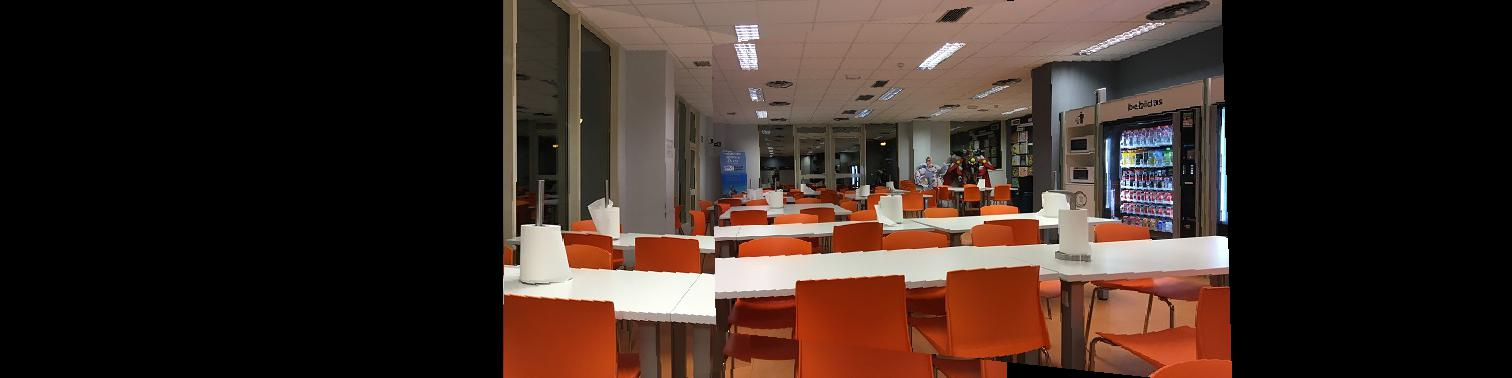
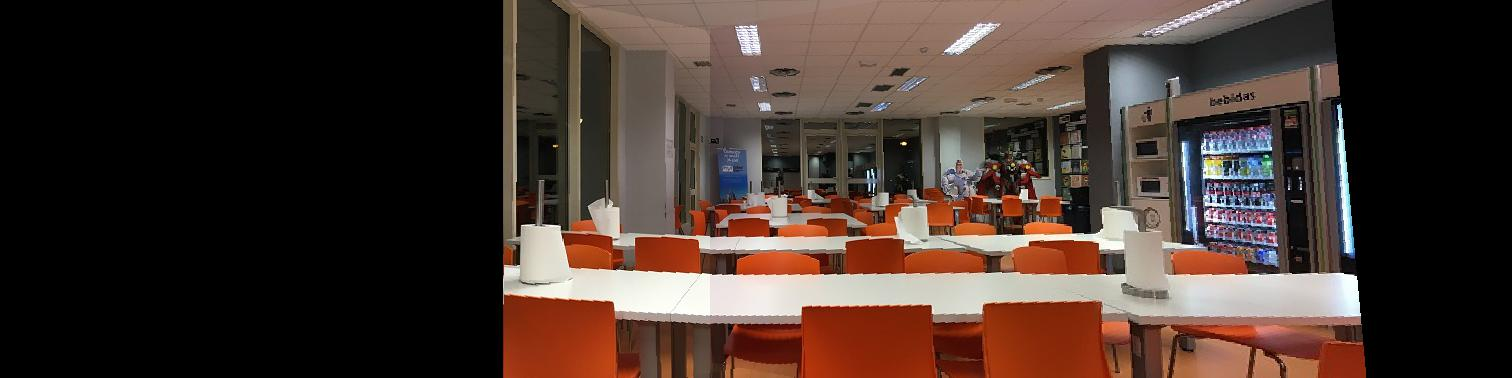
Newer, more precise points for the right photo's homography

Changed region(s): [[0.4663, 0.0, 0.9015, 1.0], [0.4663, 0.9312, 0.5284, 0.9894]]

diff --git a/Ejercicio03/Ejercicio_03_03.m b/Ejercicio03/Ejercicio_03_03.m
@@ -98,17 +98,17 @@ end
 
 % Lado Derecho
 % Puntos foto derecha
-PuntoD_X_3 = 5.886758317774585;
-PuntoD_Y_3 = 6.294396955907192;
+PuntoD_X_3 = 0.63;
+PuntoD_Y_3 = 7.46;
 
-PuntoE_X_3 = 6.767936009341497;
-PuntoE_Y_3 = 8.282419796637424;
+PuntoE_X_3 = 2.17;
+PuntoE_Y_3 = 1.44;
 
-PuntoF_X_3 = 4.532753572196157;
-PuntoF_Y_3 = 6.219174470041724;
+PuntoF_X_3 = 3.82;
+PuntoF_Y_3 = 5.32;
 
-PuntoG_X_3 = 6.73569780111344;
-PuntoG_Y_3 = 5.069345043240996;
+PuntoG_X_3 = 5.49;
+PuntoG_Y_3 = 1.79;
 
 ColumnaPuntoD_3 = relacionEjeX * PuntoD_X_3;
 FilaPuntoD_3 = filas - (relacionEjeY  * PuntoD_Y_3);
@@ -128,17 +128,17 @@ MatrizOriginal = [FilaPuntoD_3, ColumnaPuntoD_3;
                   FilaPuntoG_3, ColumnaPuntoG_3];
                   
 % Puntos foto central
-PuntoD_X_4 = 8.755046330849181;
-PuntoD_Y_4 = 5.280528934182102;
+PuntoD_X_4 = 4.58;
+PuntoD_Y_4 = 6.98;
 
-PuntoE_X_4 = 9.64141835308403;
-PuntoE_Y_4 = 7.215297971963546;
+PuntoE_X_4 = 5.94;
+PuntoE_Y_4 = 1.43;
 
-PuntoF_X_4 = 7.449315502395696;
-PuntoF_Y_4 = 5.118503940870355;
+PuntoF_X_4 = 7.5;
+PuntoF_Y_4 = 5.3;
 
-PuntoG_X_4 = 9.670010998962573;
-PuntoG_Y_4 = 4.194008390797449;
+PuntoG_X_4 = 9.55;
+PuntoG_Y_4 = 1.43;
 
 ColumnaPuntoD_4 = relacionEjeX * PuntoD_X_4;
 FilaPuntoD_4 = filas - (relacionEjeY  * PuntoD_Y_4);
@@ -166,10 +166,10 @@ for i = [1:filas]
     result = MHomografia * [i, j, 1]';
     result = result / result(3);
 
-    if !(round(result(1))+50 < 1 || round(result(1))+50 > filas) && ...
-      !(round(result(2))-20 < 1 || round(result(2))-20 > columnas)
+    if !(round(result(1)) < 1 || round(result(1)) > filas) && ...
+      !(round(result(2)) < 1 || round(result(2)) > columnas)
       for k = [1:color]
-        resultImage(i, j + columnas, k) = imgDch(round(result(1))+50, round(result(2))-20, k);
+        resultImage(i, j + columnas, k) = imgDch(round(result(1)), round(result(2)), k);
       end
     endif
   end
